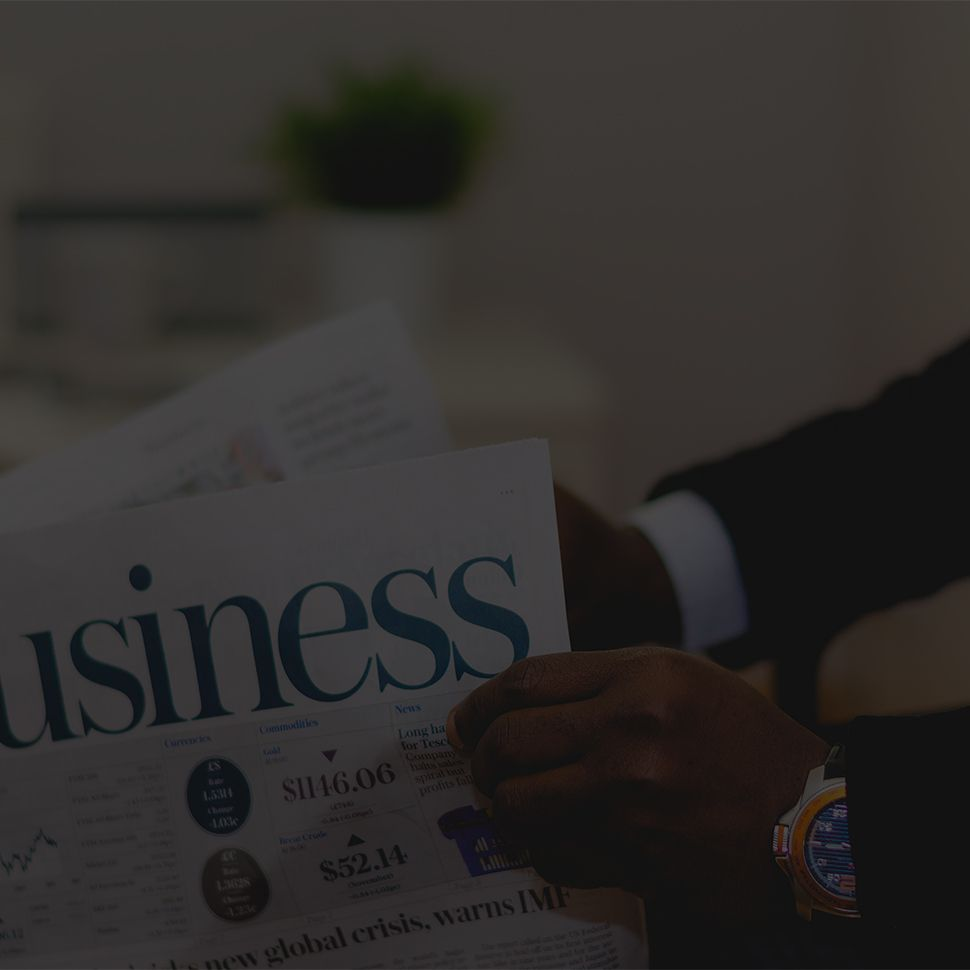
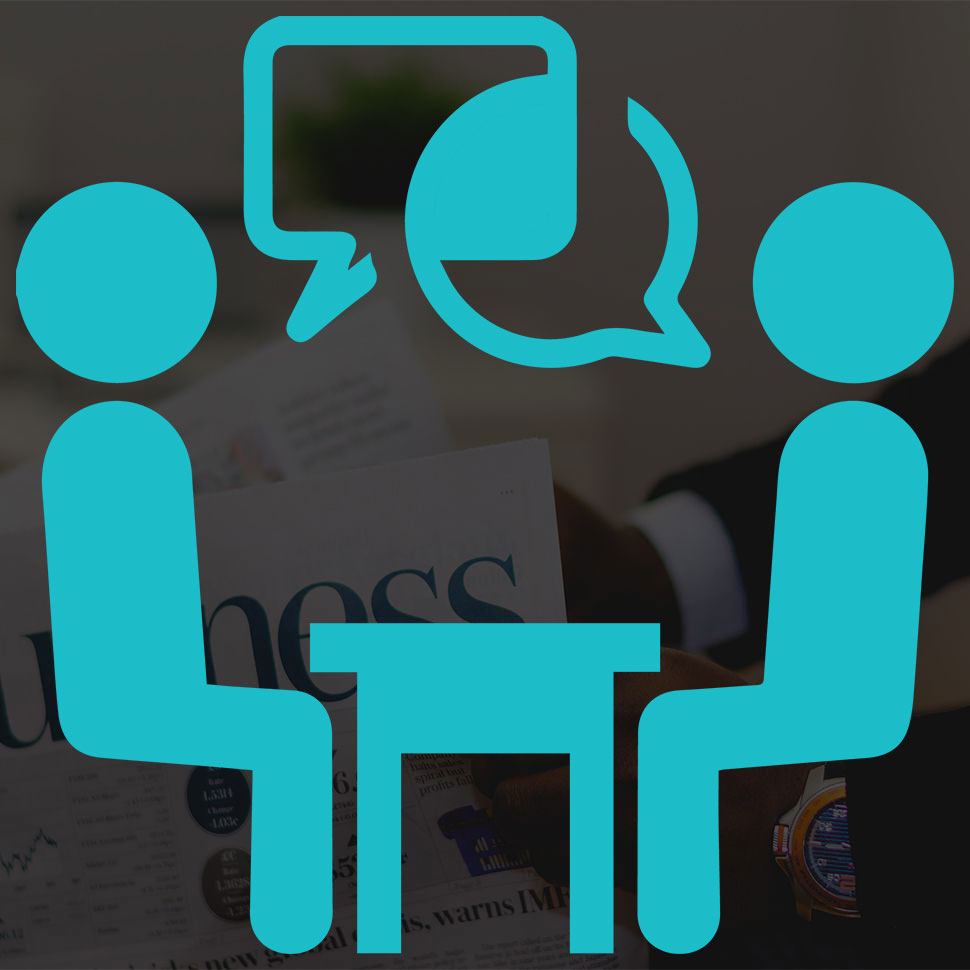
a

diff --git a/index.html b/index.html
@@ -311,7 +311,7 @@
                 <div class="col-sm-4">
                     <!-- News -->
                     <article>
-                        <img class="img-responsive" src="img/970x970/03.jpg" alt="Image">
+                        <img class="img-responsive" src="img/970x970/04.jpg" alt="Image">
                         <div class="g-bg-color--white g-box-shadow__dark-lightest-v2 g-text-center--xs g-padding-x-40--xs g-padding-y-40--xs">
                             <p class="text-uppercase g-font-size-14--xs g-font-weight--700 g-color--primary g-letter-spacing--2">Reflection</p>
                             <h3 class="g-font-size-22--xs g-letter-spacing--1"><a href="https://scstrawberrycoffee2017.blogspot.com/2017/09/reflection5-project1-interviews.html">Project 1 Interviews</a></h3>
